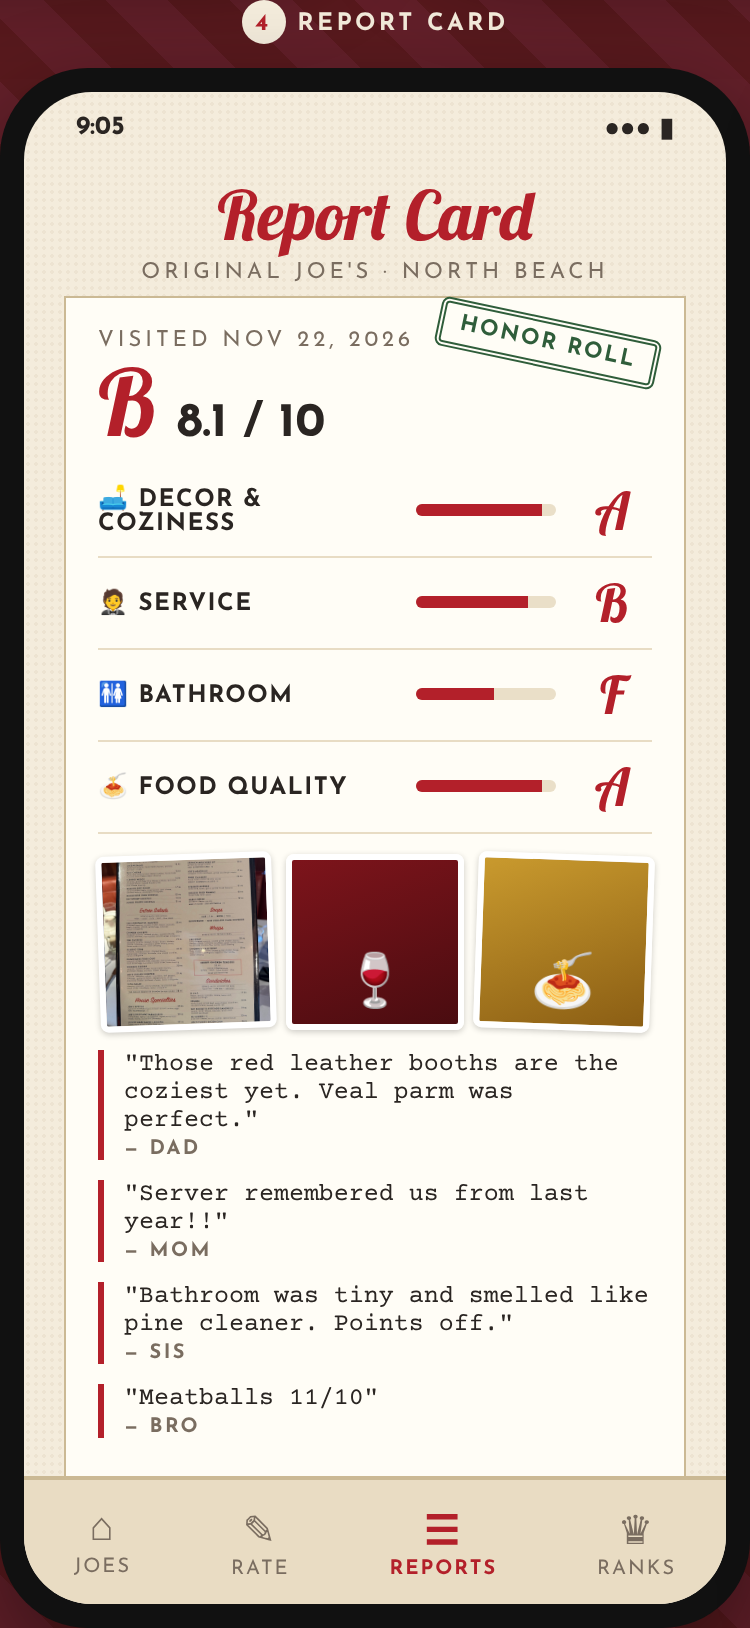
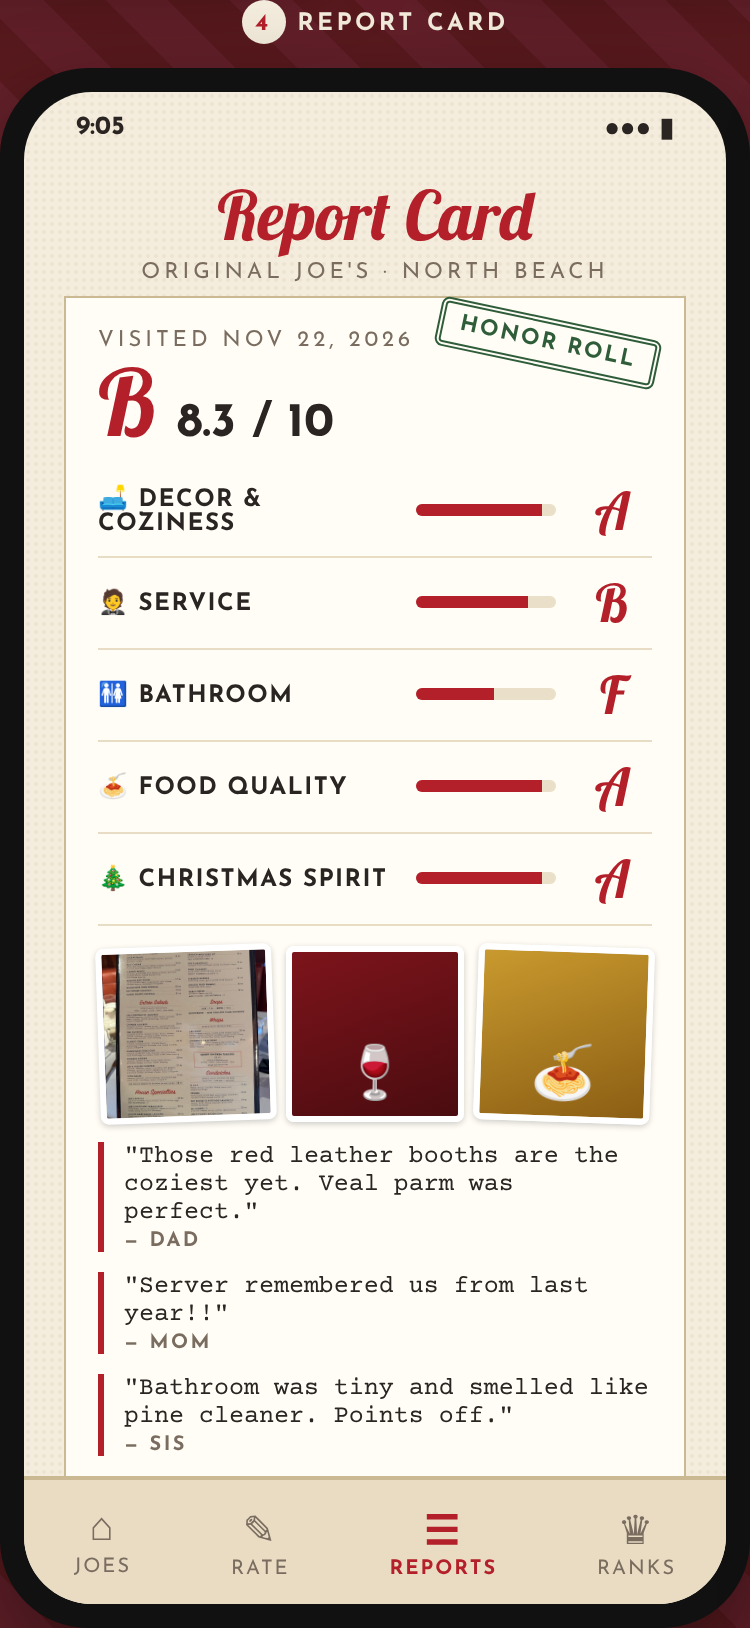
Add Christmas Spirit as a low-weight fifth rating category
Claude-Session: https://claude.ai/code/session_011Dx8EhM5jGPoau32W4JsVq

diff --git a/mockups/index.html b/mockups/index.html
@@ -92,6 +92,8 @@
   .cat-top b { text-transform: uppercase; letter-spacing: .08em; font-size: 13px; }
   .cat-top .w { font-size: 10px; color: var(--muted); letter-spacing: .1em; }
   .cat-top .score { font-family: var(--script); color: var(--red); font-size: 30px; line-height: 1; }
+  .cat.tertiary { background: transparent; border-style: dashed; padding: 8px 12px 10px; }
+  .cat.tertiary .dots10 button { font-size: 10px; }
   .cat .hint { font-size: 11px; color: var(--muted); margin: 2px 0 8px; }
   .dots10 { display: grid; grid-template-columns: repeat(10, 1fr); gap: 4px; }
   .dots10 button { aspect-ratio: 1; border-radius: 50%; border: 1.5px solid var(--red); background: transparent; color: var(--red); font-family: var(--sans); font-weight: 700; font-size: 11px; cursor: pointer; padding: 0; }
@@ -285,15 +287,16 @@
         <h2 class="script">The Rankings</h2>
         <div class="sub">Best Joe's So Far</div>
         <div class="chips">
-          <span class="on">Overall</span><span>🛋 Decor</span><span>🍝 Food</span><span>🤵 Service</span><span>🚻 Bath</span>
+          <span class="on">Overall</span><span>🛋 Decor</span><span>🍝 Food</span><span>🤵 Service</span><span>🚻 Bath</span><span>🎄 Xmas</span>
         </div>
         <div id="ranks"></div>
         <div class="boxed" style="margin-top:18px">
           <div class="sub">Weighting</div>
           <div class="row"><span class="name">Food</span><span class="dots"></span><span class="val">40%</span></div>
           <div class="row"><span class="name">Decor &amp; Coziness</span><span class="dots"></span><span class="val">20%</span></div>
-          <div class="row"><span class="name">Service</span><span class="dots"></span><span class="val">20%</span></div>
-          <div class="row"><span class="name">Bathroom</span><span class="dots"></span><span class="val">20%</span></div>
+          <div class="row"><span class="name">Service</span><span class="dots"></span><span class="val">15%</span></div>
+          <div class="row"><span class="name">Bathroom</span><span class="dots"></span><span class="val">15%</span></div>
+          <div class="row"><span class="name">🎄 Christmas Spirit</span><span class="dots"></span><span class="val">10%</span></div>
         </div>
       </div>
       <div class="tabbar">
@@ -311,41 +314,42 @@
   <h3>How it works</h3>
   <ol>
     <li><b>The Quest:</b> all the Original Joe's locations, with visited ones showing their score badge.</li>
-    <li><b>Rate at the Table:</b> each person taps 1–10 for the 4 categories, adds comments and photos. The avatars show who's finished.</li>
+    <li><b>Rate at the Table:</b> each person taps 1–10 for the 5 categories, adds comments and photos. The avatars show who's finished.</li>
     <li><b>The Wrap-Up:</b> once everyone submits, the app shows each category's average, everyone's scores side by side, and the weighted overall score.</li>
     <li><b>Report Card:</b> the permanent record for that visit, with letter grades, photos and everyone's comments.</li>
     <li><b>Leaderboard:</b> ranks every Joe's, overall or by a single category.</li>
   </ol>
-  <p><b>Scoring:</b> overall = 40% Food + 20% Decor + 20% Service + 20% Bathroom, using the group average for each category. Letter grades: 9+ A, 8+ B, 7+ C, 6+ D. Try tapping the numbers on screen 2. The score updates live.</p>
+  <p><b>Scoring:</b> overall = 40% Food + 20% Decor + 15% Service + 15% Bathroom + 10% Christmas Spirit (the tertiary category), using the group average for each category. Letter grades: 9+ A, 8+ B, 7+ C, 6+ D. Try tapping the numbers on screen 2. The score updates live.</p>
   <p><b>Placeholders:</b> the location list, family names and all scores are sample data.</p>
 </div>
 
 <script>
-const W = { food: .4, decor: .2, service: .2, bath: .2 };
+const W = { food: .4, decor: .2, service: .15, bath: .15, xmas: .1 };
 const CATS = [
   { k: 'decor',   name: '🛋 Decor & Coziness', hint: 'Ambiance, comfort, lighting, vibe' },
   { k: 'service', name: '🤵 Service',         hint: 'Friendly, attentive, timing' },
   { k: 'bath',    name: '🚻 Bathroom',        hint: 'Clean, spacious, air flow, good smell' },
   { k: 'food',    name: '🍝 Food Quality',    hint: 'Good ingredients, high quality prep' },
+  { k: 'xmas',    name: '🎄 Christmas Spirit', hint: 'Tertiary · lights, the tree, holiday cheer' },
 ];
 const PEOPLE = ['Dad', 'Mom', 'Sis', 'Bro'];
 // sample ratings for North Beach: person -> category -> score
 const NB = {
-  Dad: { decor: 9,  service: 8, bath: 6, food: 9 },
-  Mom: { decor: 8,  service: 9, bath: 5, food: 9 },
-  Sis: { decor: 9,  service: 7, bath: 4, food: 8 },
-  Bro: { decor: 10, service: 8, bath: 7, food: 10 },
+  Dad: { decor: 9,  service: 8, bath: 6, food: 9,  xmas: 9 },
+  Mom: { decor: 8,  service: 9, bath: 5, food: 9,  xmas: 10 },
+  Sis: { decor: 9,  service: 7, bath: 4, food: 8,  xmas: 8 },
+  Bro: { decor: 10, service: 8, bath: 7, food: 10, xmas: 9 },
 };
 const LOCS = [
   { name: 'North Beach',  city: 'San Francisco', date: 'Nov 22', avg: null },
-  { name: 'Westlake',     city: 'Daly City',     date: 'Nov 29', avg: { decor: 8.5, service: 7.8, bath: 7.5, food: 7.2 } },
-  { name: 'Burlingame',   city: 'Burlingame',    date: 'Nov 15', avg: { decor: 6.0, service: 7.5, bath: 8.3, food: 7.0 } },
+  { name: 'Westlake',     city: 'Daly City',     date: 'Nov 29', avg: { decor: 8.5, service: 7.8, bath: 7.5, food: 7.2, xmas: 9.5 } },
+  { name: 'Burlingame',   city: 'Burlingame',    date: 'Nov 15', avg: { decor: 6.0, service: 7.5, bath: 8.3, food: 7.0, xmas: 5.0 } },
   { name: 'San Jose',     city: 'San Jose',      date: null },
   { name: 'Location TBD', city: 'Add another Joe’s', date: null },
 ];
 
 const avg = arr => arr.reduce((a, b) => a + b, 0) / arr.length;
-const overall = s => W.food * s.food + W.decor * s.decor + W.service * s.service + W.bath * s.bath;
+const overall = s => Object.keys(W).reduce((t, k) => t + W[k] * s[k], 0);
 const grade = v => v >= 9 ? 'A' : v >= 8 ? 'B' : v >= 7 ? 'C' : v >= 6 ? 'D' : 'F';
 const f1 = v => v.toFixed(1);
 
@@ -364,8 +368,8 @@ document.getElementById('locList').innerHTML = LOCS.map(l => {
 const mine = { ...NB.Dad };
 function renderCats() {
   document.getElementById('cats').innerHTML = CATS.map(c => `
-    <div class="cat">
-      <div class="cat-top"><div><b>${c.name}</b> <span class="w">${W[c.k] * 100}%</span></div><span class="score">${mine[c.k]}</span></div>
+    <div class="cat${c.k === 'xmas' ? ' tertiary' : ''}">
+      <div class="cat-top"><div><b>${c.name}</b> <span class="w">${Math.round(W[c.k] * 100)}%</span></div><span class="score">${mine[c.k]}</span></div>
       <div class="hint">${c.hint}</div>
       <div class="dots10">${[...Array(10)].map((_, i) => `<button data-k="${c.k}" data-v="${i + 1}" class="${i + 1 <= mine[c.k] ? 'on' : ''}">${i + 1}</button>`).join('')}</div>
     </div>`).join('');
@@ -380,8 +384,8 @@ renderCats();
 // Wrap-up
 const nbO = overall(nbAvg);
 document.getElementById('wrapOverall').textContent = f1(nbO);
-document.getElementById('wrapMath').innerHTML = CATS.map(c => `${W[c.k] * 100}%×${f1(nbAvg[c.k])}`).join(' + ');
-const short = { decor: '🛋 Decor', service: '🤵 Service', bath: '🚻 Bath', food: '🍝 Food' };
+document.getElementById('wrapMath').innerHTML = CATS.map(c => `${Math.round(W[c.k] * 100)}%×${f1(nbAvg[c.k])}`).join(' + ');
+const short = { decor: '🛋 Decor', service: '🤵 Service', bath: '🚻 Bath', food: '🍝 Food', xmas: '🎄 Xmas' };
 document.getElementById('wrapTable').innerHTML =
   `<tr><th></th>${PEOPLE.map(p => `<th>${p}</th>`).join('')}<th>Avg</th></tr>` +
   CATS.map(c => {
